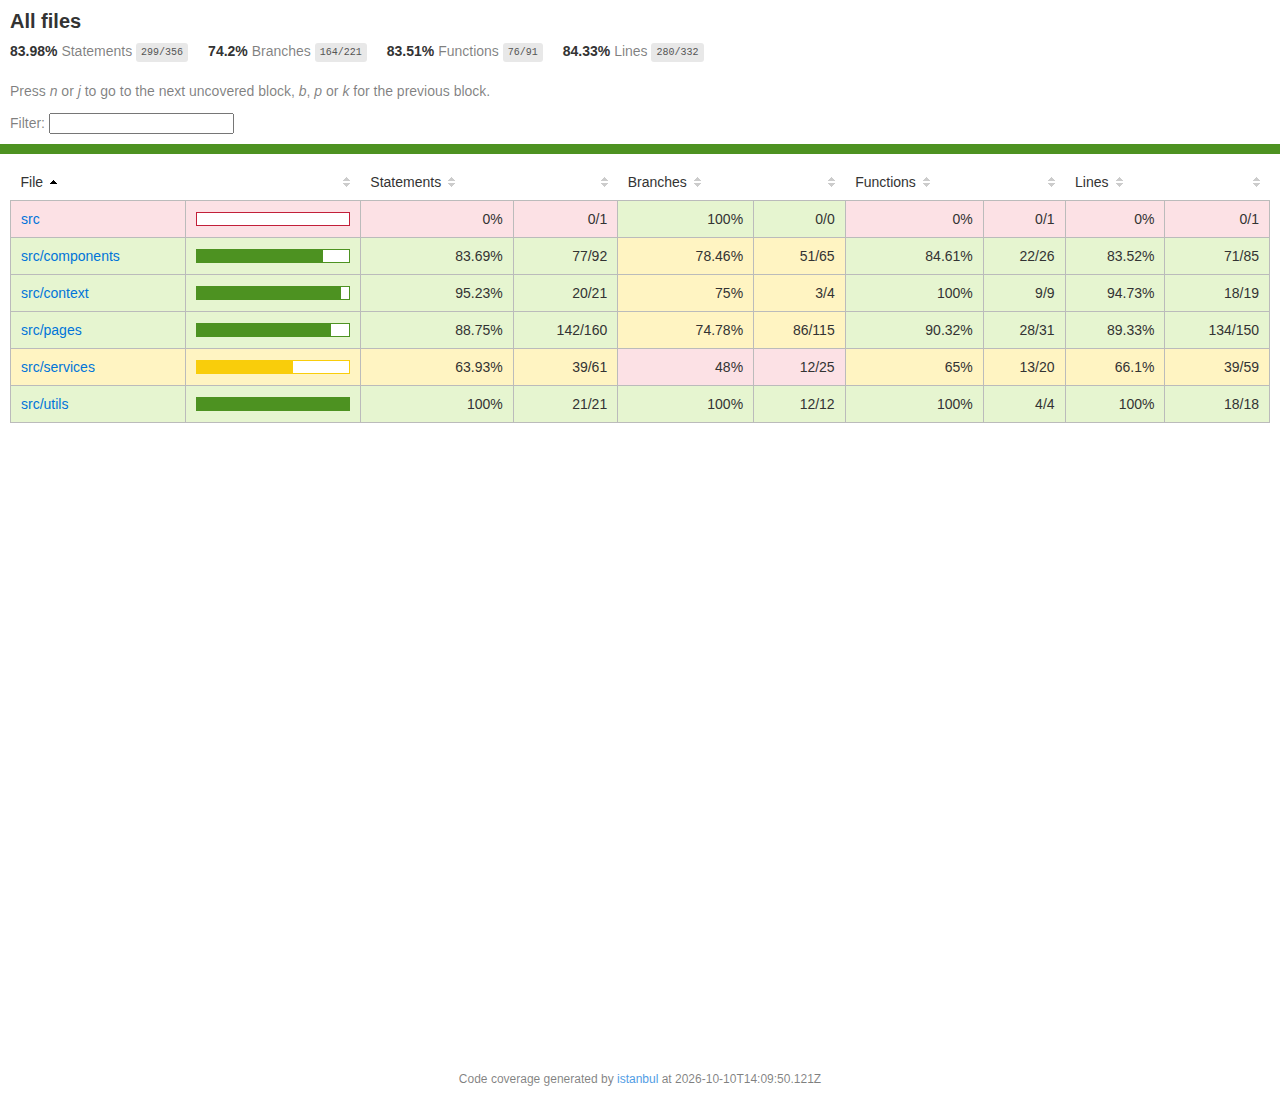
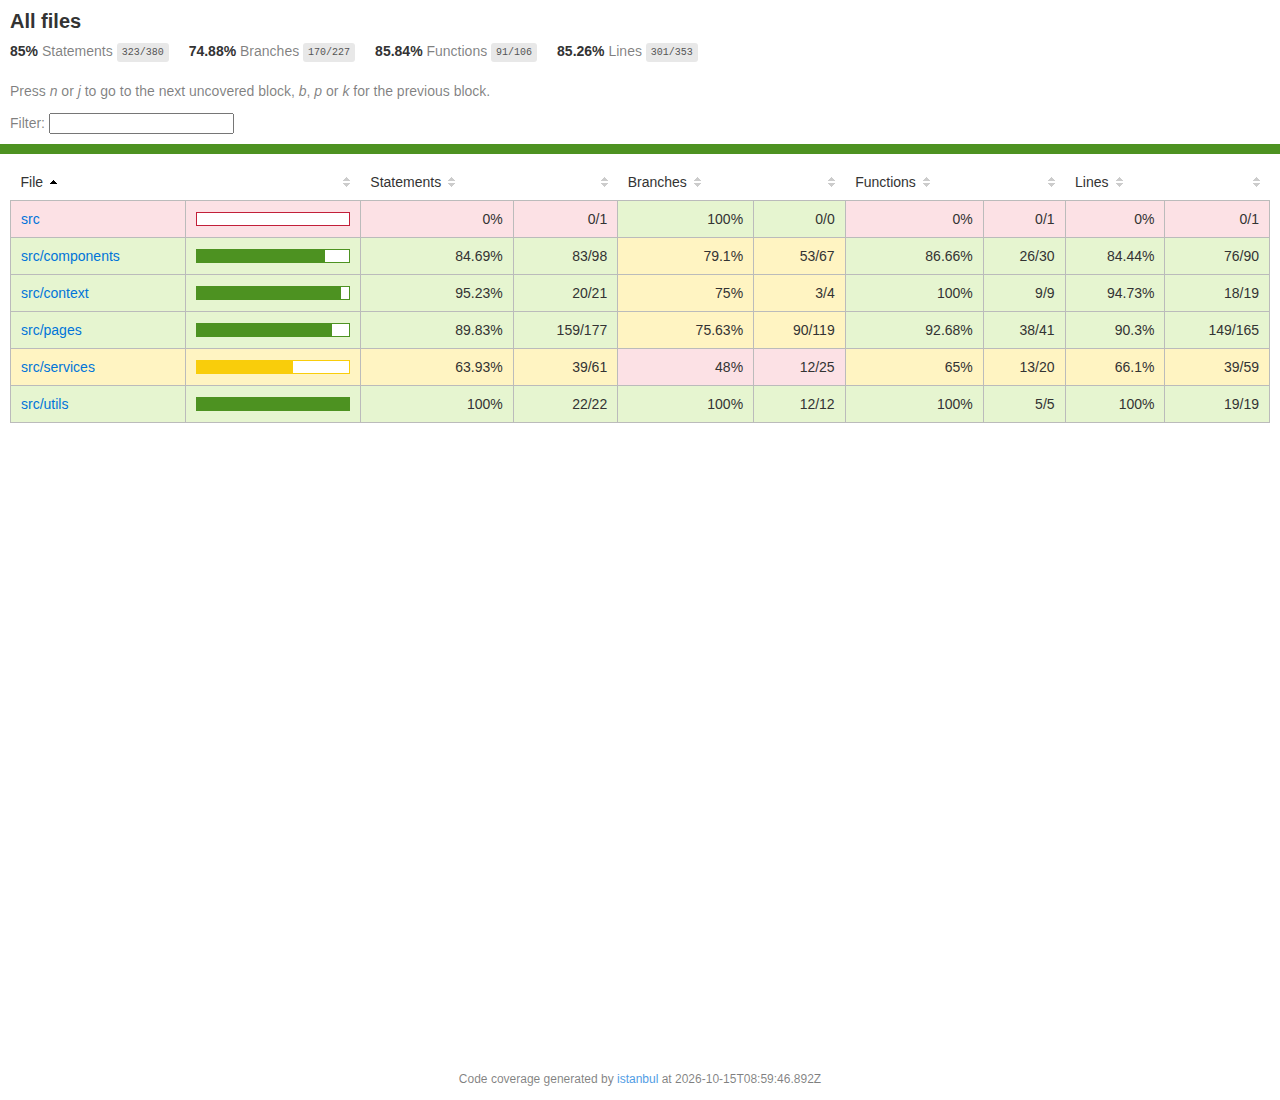
docs: refresh test and coverage reports before the review

diff --git a/docs/qualite/TESTING.md b/docs/qualite/TESTING.md
@@ -70,15 +70,16 @@
 | 11/10/2026 | performance | k6 (API en mode production) : 30 téléversements de 10 Mo, 91 lectures, 9 téléchargements de 10 Mo (fichier identique), rafale bloquée ; Lighthouse sur 3 pages (mobile et ordinateur), avant et après correction des contrastes | ✅ tous les seuils tenus · accessibilité 100 | [k6](../rapports/k6-resultats.png) · [Lighthouse](../rapports/lighthouse-connexion-apres.png) |
 | 12/10/2026 | backend | Logs structurés : tests unitaires du journal des requêtes (une ligne à la fin de la réponse, jeton masqué) ; test k6 relancé, 185 lignes JSON analysées (PERF.md) | ✅ 77/77 unitaires · ✅ 27/27 e2e · ✅ k6 | [Capture](../rapports/logs-structures.png) |
 | 14/10/2026 | backend + frontend | Tags dans Mon espace (US08) : test unitaire de l'affichage (une case, infobulle, aucune case sans tag) et du tri des tags ; test manuel avec 10 tags de 30 caractères (ordinateur, mobile portrait et paysage) ; non-régression complète | ✅ 78/78 unitaires · ✅ 27/27 e2e (back) · ✅ 43/43 (front) · ✅ 3/3 Cypress | 88,7 % des instructions (back), 85 % (front) |
+| 15/10/2026 | backend + frontend | Vérification finale avant la soutenance : compilation TypeScript, Oxlint, Prettier, `npm audit`, tous les tests avec couverture, scénarios Cypress, en-têtes des fichiers ; captures des rapports refaites | ✅ 78/78 · ✅ 27/27 · ✅ 43/43 · ✅ 3/3 Cypress · 0 vulnérabilité | [Résultats](../rapports/resultats-tests.png) |
 
-### Rapports (captures du 10/10/2026, dossier [`docs/rapports/`](../rapports/))
+### Rapports (captures du 15/10/2026, dossier [`docs/rapports/`](../rapports/))
 
 | Rapport | Capture | Commande pour le régénérer |
 |---|---|---|
-| Résultats des 3 suites Vitest (139 tests) | [resultats-tests.png](../rapports/resultats-tests.png) | `npm test` et `npm run test:e2e` (back), `npm test` (front) |
-| Couverture des tests unitaires du back (89,7 % des lignes) | [couverture-backend-unitaires.png](../rapports/couverture-backend-unitaires.png) | `npm run test:cov` (dans `backend/`) |
-| Couverture des tests de bout en bout du back (87,8 % des lignes) | [couverture-backend-e2e.png](../rapports/couverture-backend-e2e.png) | `npm run test:e2e:cov` (dans `backend/`) |
-| Couverture des tests unitaires du front (84,3 % des lignes) | [couverture-frontend.png](../rapports/couverture-frontend.png) | `npm run test:cov` (dans `frontend/`) |
+| Résultats des 3 suites Vitest (148 tests : 78 + 27 + 43), avec la couverture de chacune | [resultats-tests.png](../rapports/resultats-tests.png) | `npm test` et `npm run test:e2e` (back), `npm test` (front) |
+| Couverture des tests unitaires du back (88,7 % des instructions, 89,9 % des lignes) | [couverture-backend-unitaires.png](../rapports/couverture-backend-unitaires.png) | `npm run test:cov` (dans `backend/`) |
+| Couverture des tests de bout en bout du back (88,7 % des instructions, 88,4 % des lignes) | [couverture-backend-e2e.png](../rapports/couverture-backend-e2e.png) | `npm run test:e2e:cov` (dans `backend/`) |
+| Couverture des tests unitaires du front (85 % des instructions, 85,3 % des lignes) | [couverture-frontend.png](../rapports/couverture-frontend.png) | `npm run test:cov` (dans `frontend/`) |
 | Scénarios Cypress (3/3) | [cypress-resultats.png](../rapports/cypress-resultats.png) | `npm run cy:run`, ou `npm run cy:video` pour filmer chaque scénario (`frontend/cypress/videos/`) |
 
 Les rapports de couverture complets (détail ligne par ligne) sont générés en HTML dans `coverage/` et `coverage-e2e/` (non versionnés). La couverture compte **tout** le code source : les dossiers à 0 % du rapport unitaire du back (`app.module.ts`, `app.setup.ts`, modules) ne contiennent que de l'assemblage, vérifié par les tests de bout en bout.
